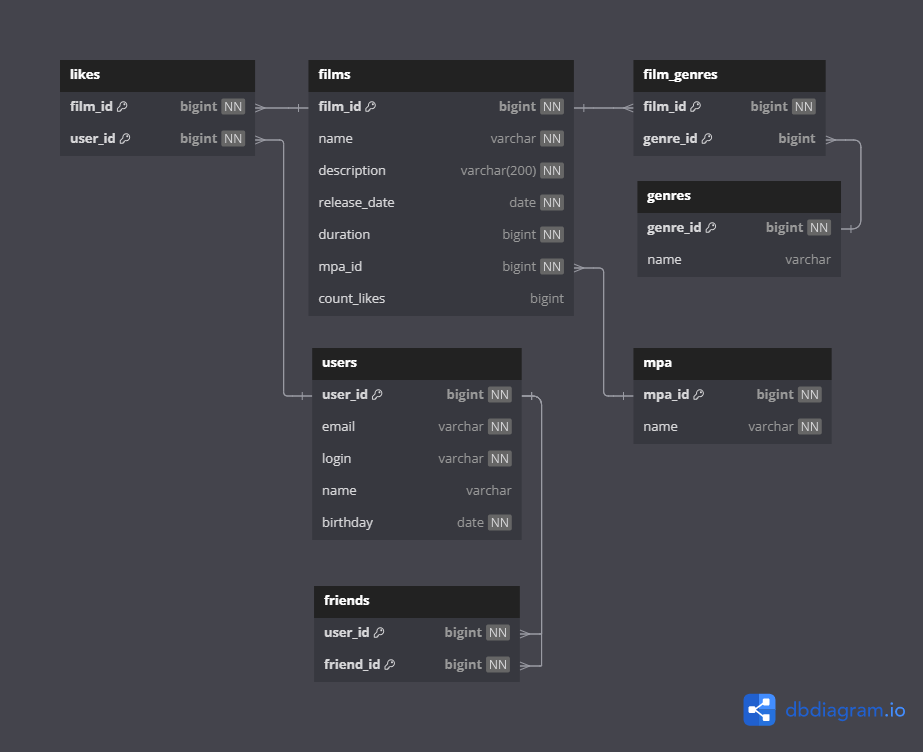
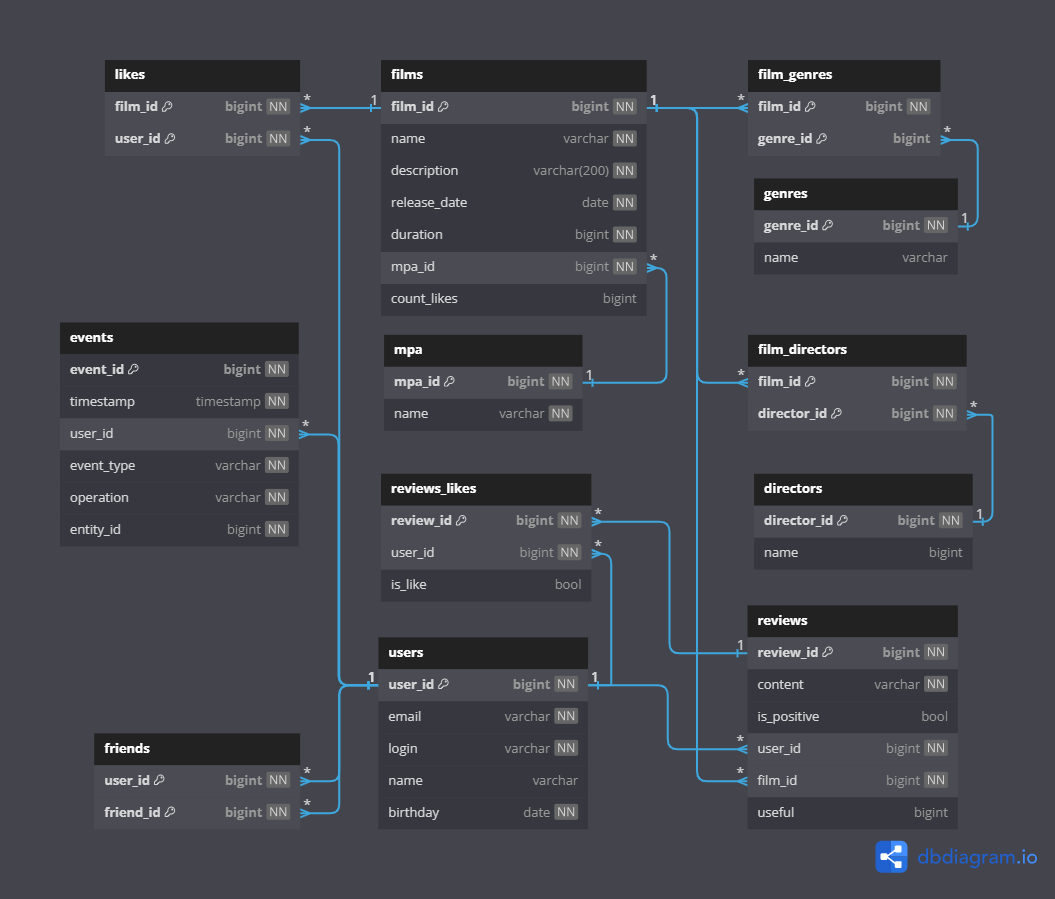
Добавить диаграмму и исправить наименование в README.md

diff --git a/README.md b/README.md
@@ -1,5 +1,5 @@
 # java-filmorate
-### Спринт 12. Финальное задание "Filmorate"
+### Спринт 13. Финальное задание "Filmorate"
 
 ### Модель базы данных filmorate (ER - диаграмма):
 
